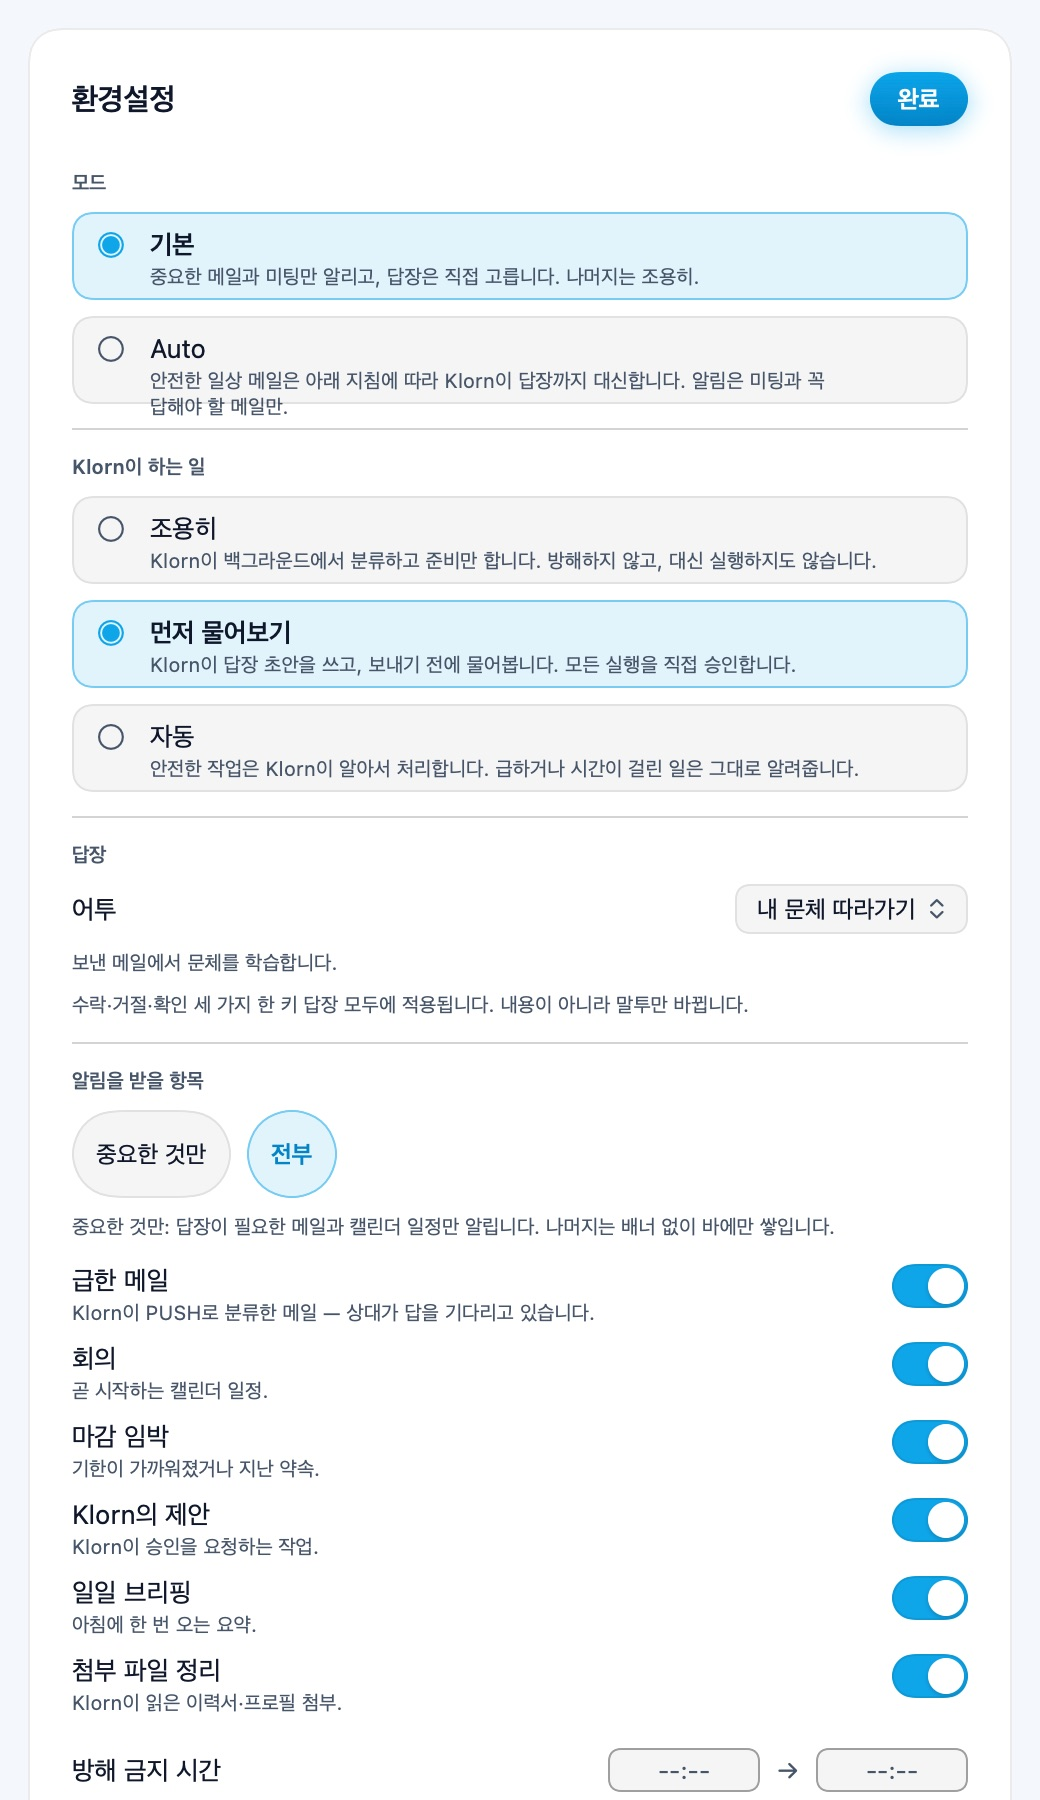
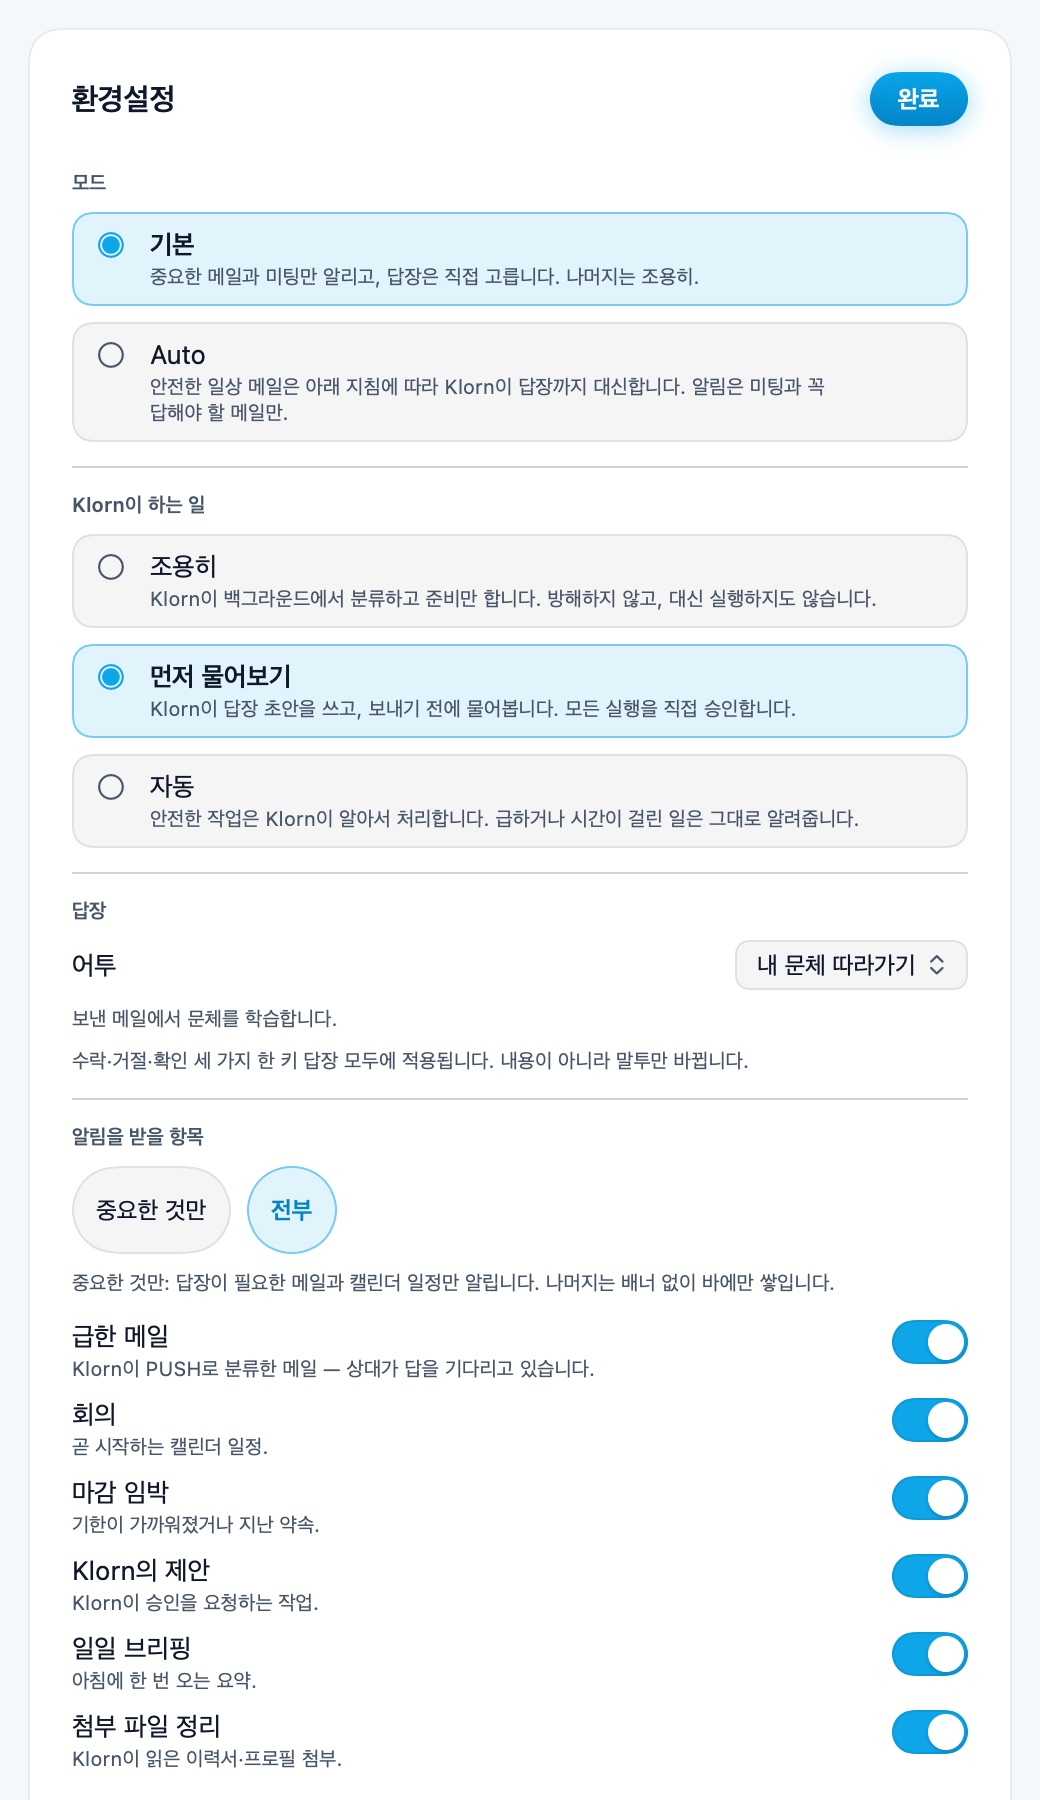
fix(desktop): ChoiceRow descriptions escaped the card — pin ideal height on the whole card (#1175)
The MODE / HOW-KLORN-WORKS radio cards painted the last wrapped line of
their description BELOW the card border (founder report 2026-08-21):
a text-level fixedSize inside a Button label can measure taller than
the card draws. Removing it truncated instead. Fix: move the ideal-
height pin to the WHOLE card (background+overlay included) so text and
background stay one unit — full wrap, no escape, no truncation.
Verified by offscreen render before/after; landing preferences shots
(en/ko) re-rendered since they carried the visible overflow.

diff --git a/apps/desktop-mac/Sources/KlornMac/AutomationPreferences.swift b/apps/desktop-mac/Sources/KlornMac/AutomationPreferences.swift
@@ -288,7 +288,6 @@ private struct ChoiceRow: View {
                     Text(title).font(.body.weight(selected ? .semibold : .regular))
                         .foregroundStyle(Theme.text)
                     Text(detail).font(.caption).foregroundStyle(Theme.textDim)
-                        .fixedSize(horizontal: false, vertical: true)
                         .multilineTextAlignment(.leading)
                 }
                 Spacer(minLength: 0)
@@ -303,6 +302,13 @@ private struct ChoiceRow: View {
             .overlay(
                 RoundedRectangle(cornerRadius: 10)
                     .strokeBorder(selected ? Theme.accent.opacity(0.5) : Theme.line))
+            // Ideal-height pin on the WHOLE card (background included), not on
+            // the inner Text: inside a Button label a text-level fixedSize can
+            // measure taller than the card draws, painting the last wrapped
+            // line BELOW the border (founder report 2026-08-21); without any
+            // pin the detail truncates instead. Pinning here keeps background
+            // and text one unit — full wrap, never an escape.
+            .fixedSize(horizontal: false, vertical: true)
         }
         .buttonStyle(.plain)
         .disabled(disabled)
